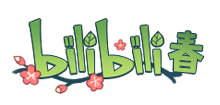
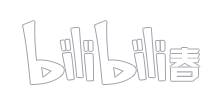
更新春季

diff --git a/src/components/Layout.vue b/src/components/Layout.vue
@@ -4,7 +4,7 @@
       <div class="logo">
         <div style="position: absolute;left: 20px;bottom: 10px">
           <a href="http://danmaku.kooriookami.top/">
-            <img src="../../src/assets/image/autumn.png">
+            <img src="../../src/assets/image/spring.png">
           </a>
         </div>
         <div style="position: absolute;right: 0;bottom: 20px">

diff --git a/src/styles/main.css b/src/styles/main.css
@@ -22,7 +22,7 @@ body {
   background-color: #eee;
   min-width: 1160px;
   height: 180px;
-  background-image: url("../assets/image/background-autumn.png");
+  background-image: url("../assets/image/background-spring.png");
   background-repeat: no-repeat;
   background-position: top center;
 }
